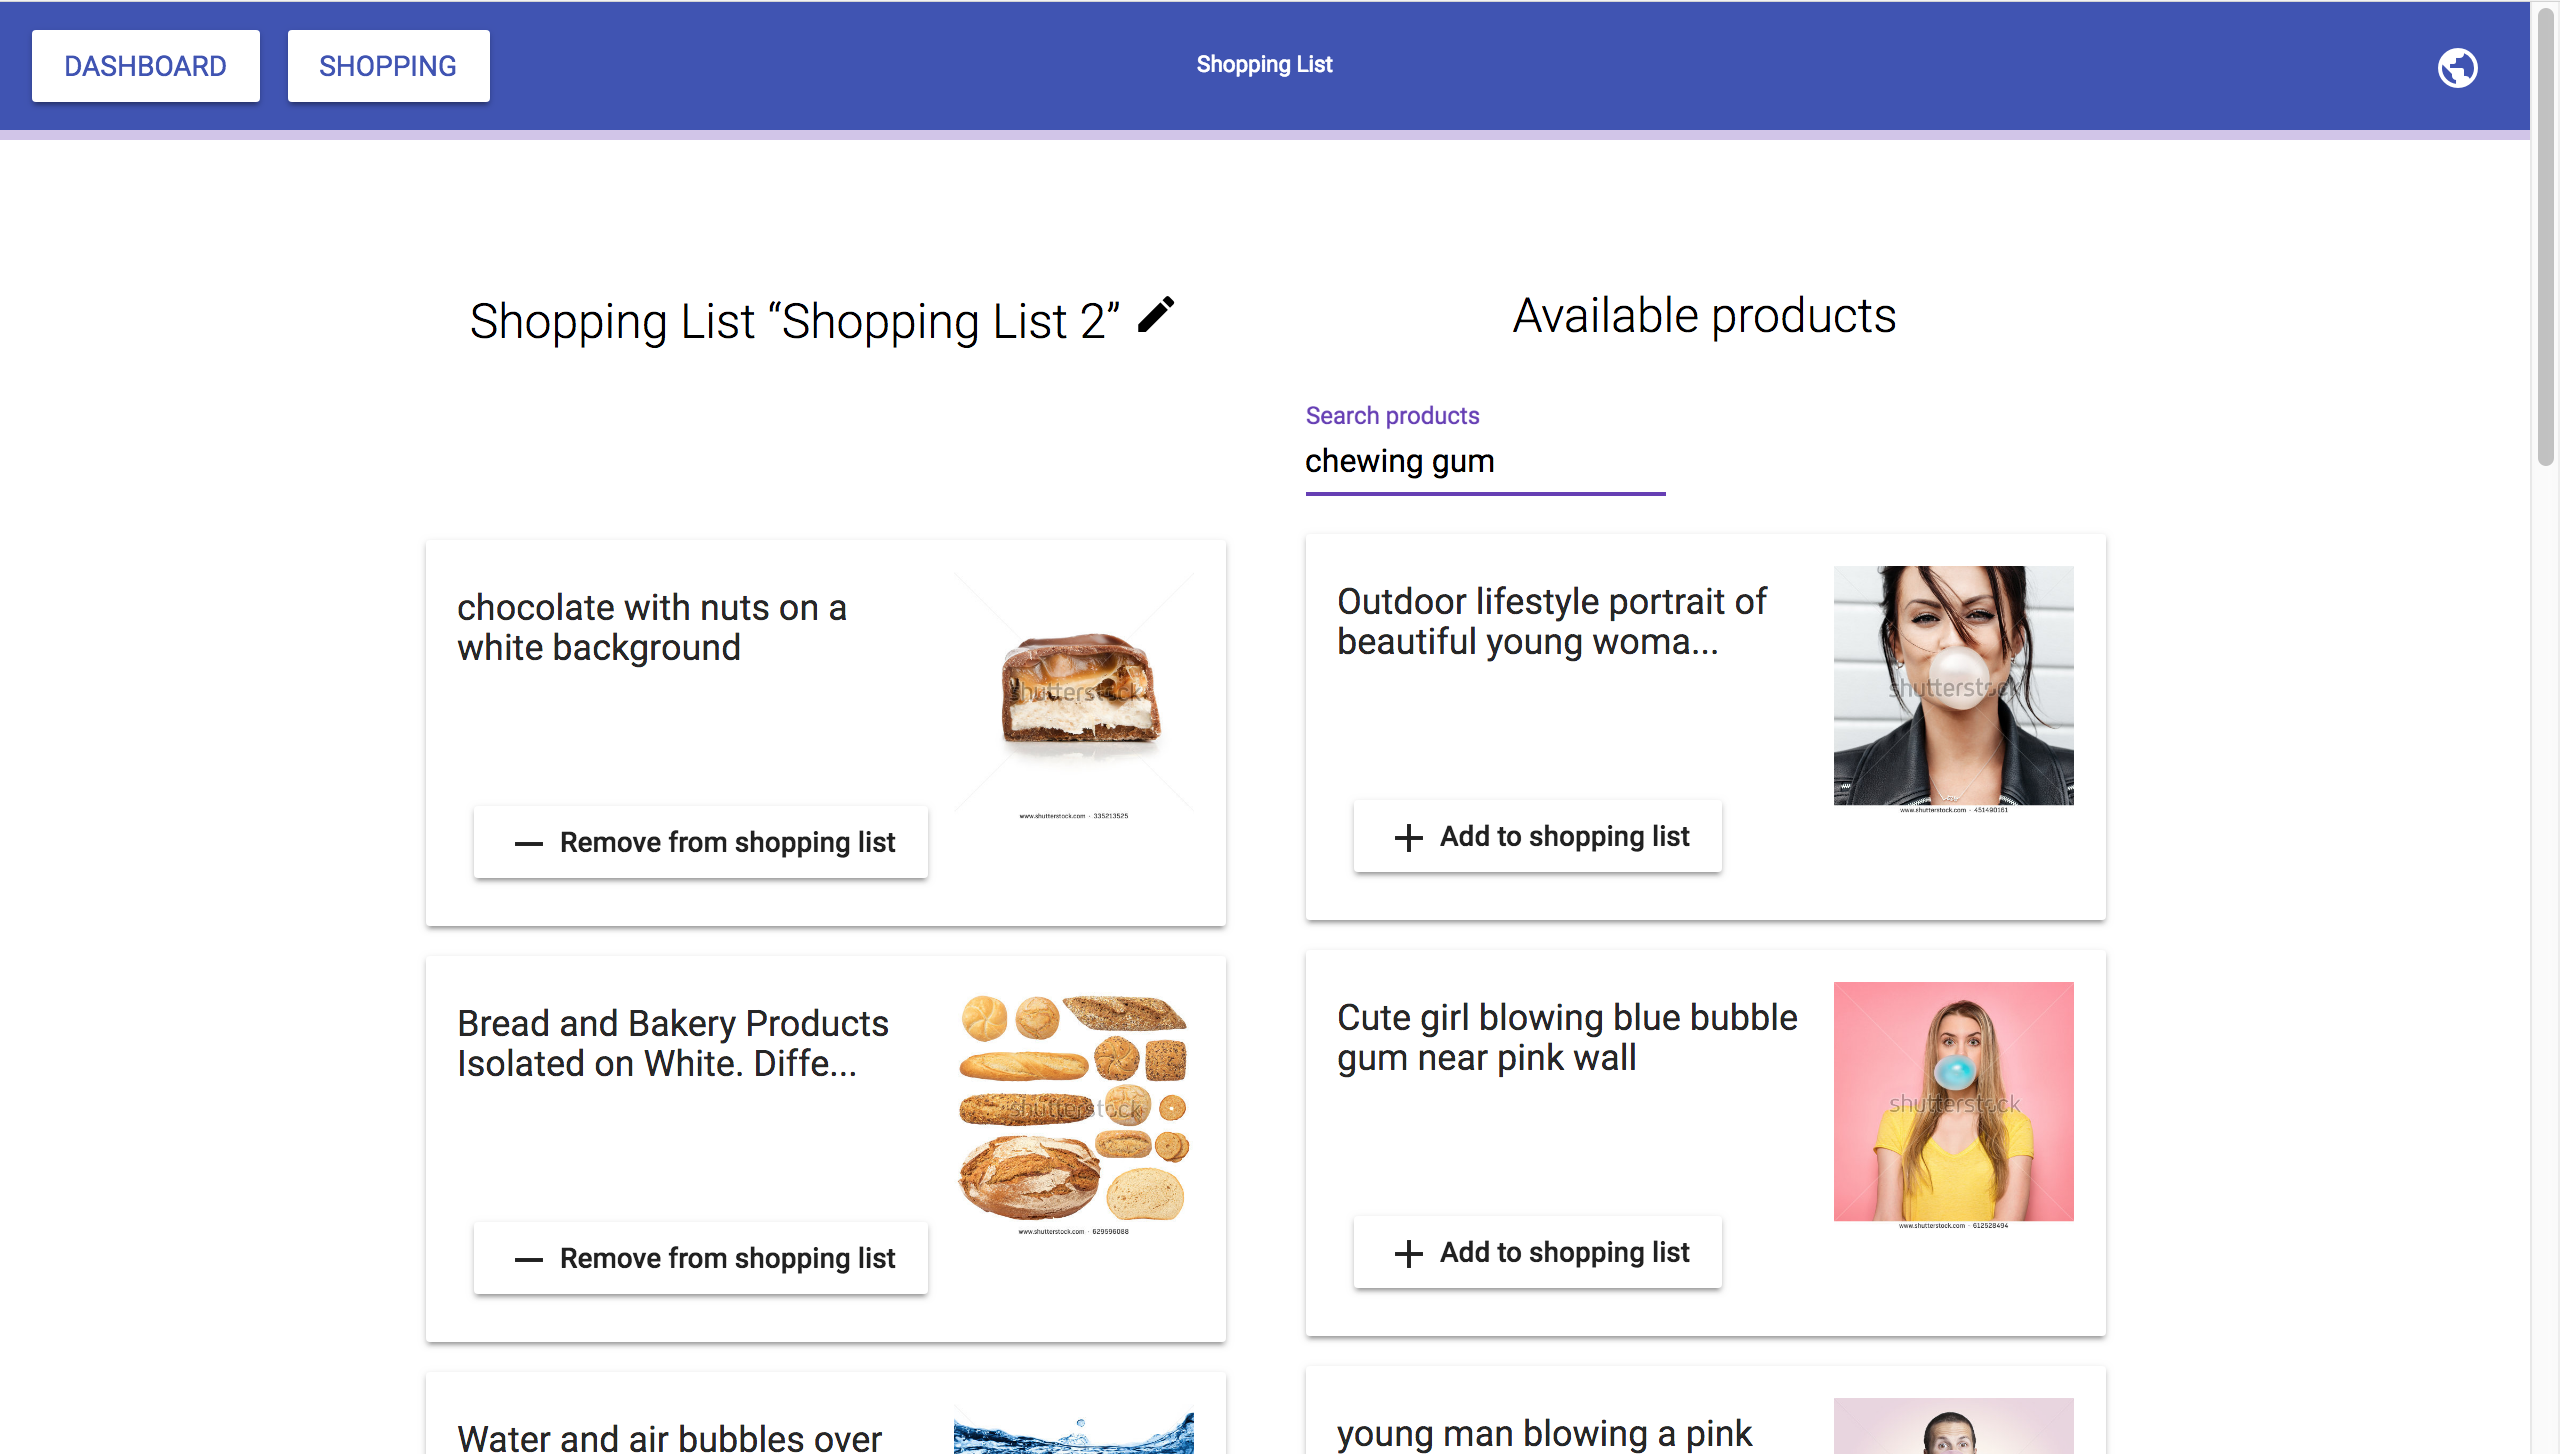
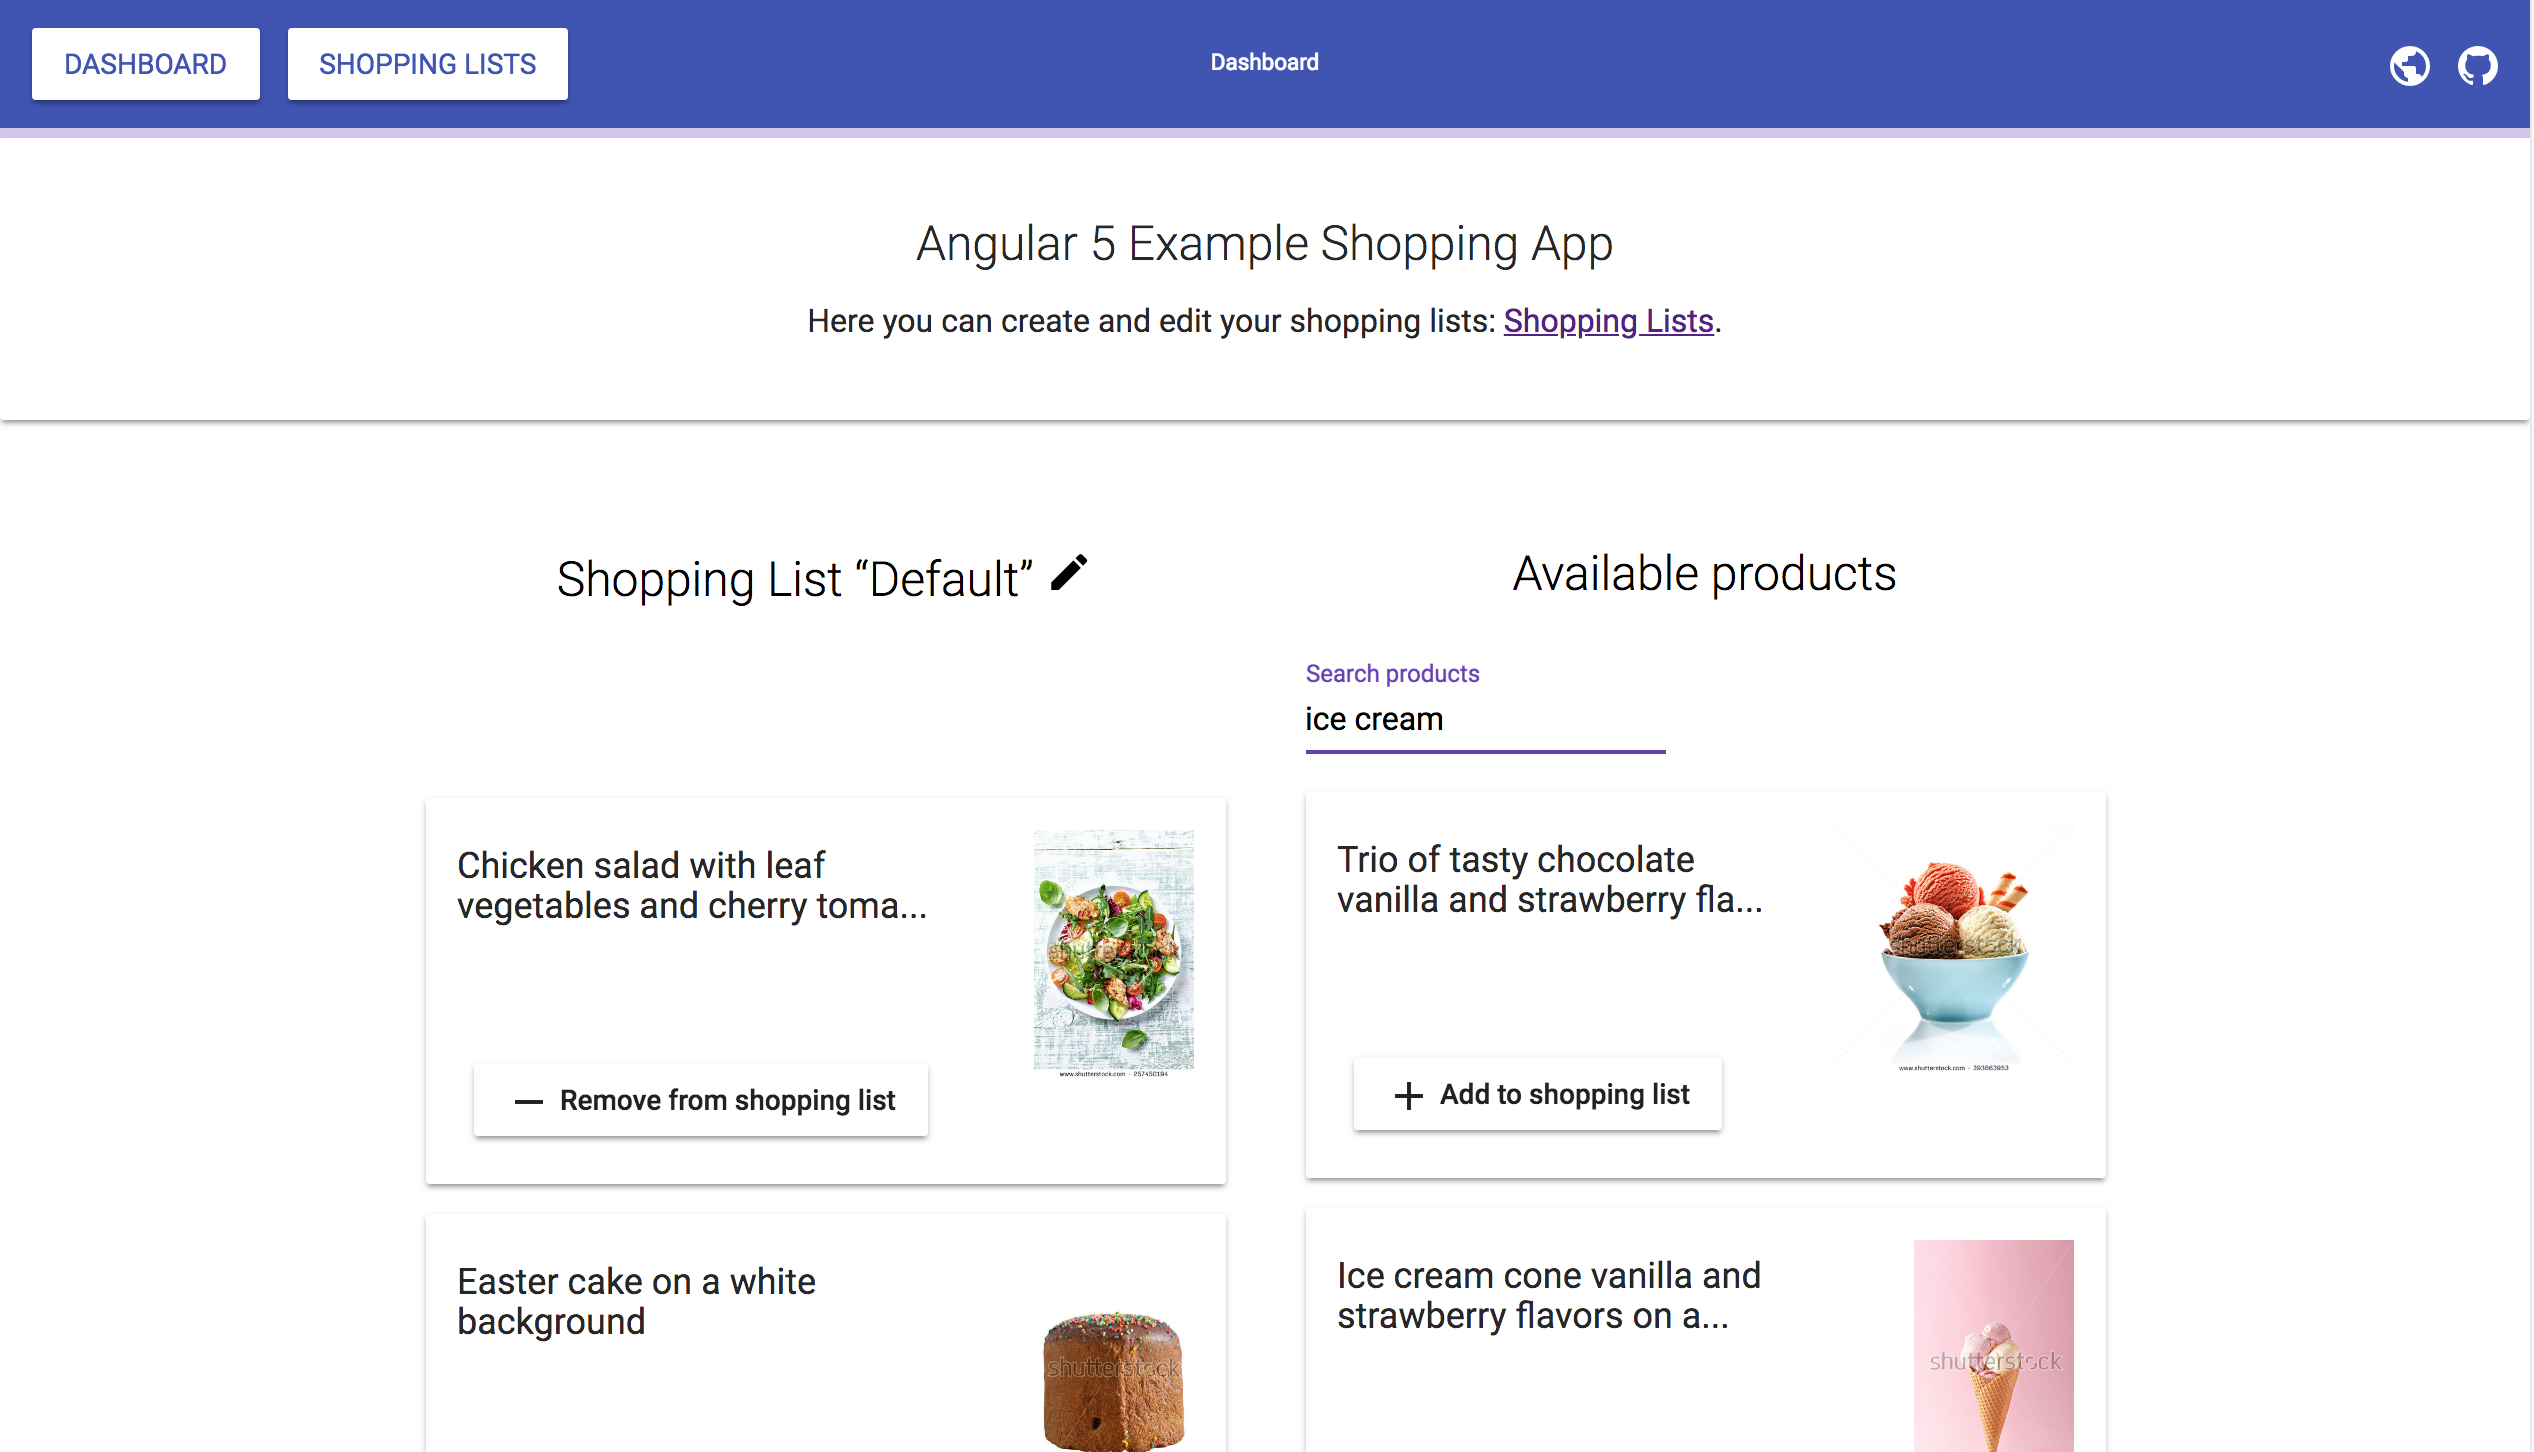
added default shopping list, displaying it in Dashboard

diff --git a/src/app/config/app.config.ts b/src/app/config/app.config.ts
@@ -13,5 +13,20 @@ export const AppConfig = {
 
   },
   snackBarDuration: 3000,
-  repositoryURL: 'https://github.com/affilnost/angular5-example-shopping-app'
+  repositoryURL: 'https://github.com/affilnost/angular5-example-shopping-app',
+  defultSHContent: '[{"id":"257450194","name":"Chicken salad with leaf vegetables and cherry toma...",' +
+  '"imgUrl":"https://image.shutterstock.com/display_pic_with_logo/236329/257450194/stock-photo-chicken-salad' +
+  '-with-leaf-vegetables-and-cherry-tomatoes-257450194.jpg","description":"Chicken salad with leaf vegetables' +
+  ' and cherry tomatoes"},{"id":"548526682","name":"Easter cake on a white background","imgUrl":"https://ima' +
+  'ge.shutterstock.com/display_pic_with_logo/2675854/548526682/stock-photo-easter-cake-on-a-white-background' +
+  '-548526682.jpg","description":"Easter cake on a white background"},{"id":"591617762","name":"Chocolate egg' +
+  ' exploded","imgUrl":"https://image.shutterstock.com/display_pic_with_logo/685426/591617762/stock-photo-cho' +
+  'colate-egg-exploded-591617762.jpg","description":"Chocolate egg exploded"},{"id":"525754399","name":"Glass' +
+  ' of milk isolated on white","imgUrl":"https://image.shutterstock.com/display_pic_with_logo/371512/52575439' +
+  '9/stock-photo-glass-of-milk-isolated-on-white-525754399.jpg","description":"Glass of milk isolated on whi' +
+  'te"},{"id":"629596088","name":"Bread and Bakery Products Isolated on White. Diffe...","imgUrl":"https://i' +
+  'mage.shutterstock.com/display_pic_with_logo/3011495/629596088/stock-photo-bread-and-bakery-products-isola' +
+  'ted-on-white-different-types-of-bread-sesame-bun-baguette-baked-629596088.jpg","description":"Bread and Ba' +
+  'kery Products Isolated on White. Different types of bread: sesame bun, baguette, baked rolls, rustic brea' +
+  'd, round bun, sesame bun."}]'
 };

diff --git a/src/app/shopping/shared/shopping.service.ts b/src/app/shopping/shared/shopping.service.ts
@@ -22,12 +22,14 @@ export class ShoppingService {
   private shoppinglistPrefix: string;
   private shoppinglistsPrefix: string;
   private maxTitleLength: number;
+  private defaultSL: object;
 
   constructor(private http: HttpClient,
               private translateService: TranslateService,
               private snackBar: MatSnackBar) {
     this.productsGetUrl = AppConfig.endpoints.productsBaseUrl + AppConfig.endpoints.productsGetPath;
     this.productsBaseUrl = AppConfig.endpoints.productsBaseUrl;
+    this.defaultSL = AppConfig.defultSHContent;
     this.shoppinglistPrefix = 'shopping-list-';
     this.shoppinglistsPrefix = 'shopping-lists';
     this.maxTitleLength = 50;
@@ -97,6 +99,30 @@ export class ShoppingService {
     let slProducts = this.getProductsByShoppingList(shoppingList);
     slProducts = slProducts.filter(sl => sl.id !== product.id);
     localStorage.setItem(this.shoppinglistPrefix + shoppingList.id, JSON.stringify(slProducts));
+  }
+
+  isThereShoppingLists(): boolean {
+    if (!this.getAllShoppingLists().length) {
+      return false;
+    }
+    return true;
+  }
+
+  getFirstShoppingList(): ShoppingList {
+    const shLists = this.getAllShoppingLists();
+    if (shLists.length) {
+      return shLists[0];
+    } else {
+      return null;
+    }
+  }
+
+  initShoppingListsWithDefault(): ShoppingList {
+    const shoppingList = new ShoppingList(0, 'Default');
+    const shoppingLists = [shoppingList];
+    localStorage.setItem(this.shoppinglistsPrefix, JSON.stringify(shoppingLists));
+    localStorage.setItem(this.shoppinglistPrefix + 0, this.defaultSL);
+    return shoppingList;
   }
 
   getAllShoppingLists(): ShoppingList[] {

diff --git a/src/app/app.module.ts b/src/app/app.module.ts
@@ -1,6 +1,6 @@
 import {BrowserModule} from '@angular/platform-browser';
 import {NgModule} from '@angular/core';
-import {FormsModule} from '@angular/forms';
+import {FormsModule, ReactiveFormsModule} from '@angular/forms';
 import {HttpClientModule, HttpClient} from '@angular/common/http';
 
 // Material
@@ -24,6 +24,10 @@ import {SharedModule} from './shared/shared.module';
 import {StateService} from './services/state/state.service';
 import {APP_CONFIG, AppConfig} from './config/app.config';
 
+import {ShoppingService} from './shopping/shared/shopping.service';
+import {CommonModule} from '@angular/common';
+import {SharedComponentsModule} from './shared/shared-components.module';
+
 
 @NgModule({
   declarations: [
@@ -31,10 +35,12 @@ import {APP_CONFIG, AppConfig} from './config/app.config';
     DashboardComponent
   ],
   imports: [
+    CommonModule,
     BrowserModule,
     BrowserAnimationsModule,
     MaterialModule,
     FormsModule,
+    ReactiveFormsModule,
     HttpClientModule,
     CoreModule,
     TranslateModule.forRoot({
@@ -45,11 +51,13 @@ import {APP_CONFIG, AppConfig} from './config/app.config';
       }
     }),
     SharedModule.forRoot(),
-    AppRoutingModule
+    AppRoutingModule,
+    SharedComponentsModule
   ],
   providers: [
     {provide: 'state', useClass: StateService},
-    {provide: APP_CONFIG, useValue: AppConfig}
+    {provide: APP_CONFIG, useValue: AppConfig},
+    ShoppingService
   ],
   bootstrap: [AppComponent]
 })

diff --git a/src/app/dashboard/dashboard.component.html b/src/app/dashboard/dashboard.component.html
@@ -1,12 +1,12 @@
-<div fxLayout="row">
-  <div fxFlex="10" fxFlex.gt-sm="20"></div>
-  <div fxFlex="90" fxFlex.gt-sm="80">
-    <h1 class="section-title">{{ 'Pages.Dashboard.Headline' | translate}}</h1>
-    <br>
-    <p>{{ "Pages.Dashboard.welcomeText" | translate }} <a routerLink="/shopping">{{ "Pages.Shopping.Title" | translate }}</a>.</p>
-    <mat-card class="welcome-card">
-      <img mat-card-image src="https://media.giphy.com/media/SKGo6OYe24EBG/giphy.gif">
-    </mat-card>
+<mat-card class="main-dashboard-card">
+  <div fxLayout="row">
+    <div fxFlex="10" fxFlex.gt-sm="20"></div>
+    <div fxFlex="90" fxFlex.gt-sm="80">
+      <h1 class="section-title">{{ 'Pages.Dashboard.Headline' | translate}}</h1>
+      <p>{{ "Pages.Dashboard.welcomeText" | translate }} <a routerLink="/shopping">{{ "Pages.Shopping.Title" | translate }}</a>.</p>
+    </div>
+    <div fxFlex="10" fxFlex.gt-sm="20"></div>
   </div>
-  <div fxFlex="10" fxFlex.gt-sm="20"></div>
-</div>
+</mat-card>
+
+<app-shopping-list-detail></app-shopping-list-detail>

diff --git a/src/app/shopping/shopping-list-detail/shopping-list-detail.component.ts b/src/app/shopping/shopping-list-detail/shopping-list-detail.component.ts
@@ -26,8 +26,17 @@ export class ShoppingListDetailComponent {
     this.activatedRoute.params.subscribe((params: any) => {
       if (params['id']) {
         this.shoppingList = this.shoppingService.getShoppingListById(params['id']);
-        this.shoppingListProducts = this.shoppingService.getProductsByShoppingList(this.shoppingList);
+      } else {
+        if (this.shoppingService.isThereShoppingLists()) {
+          // if there are any shopping lists - get the first one
+          this.shoppingList = this.shoppingService.getFirstShoppingList();
+
+        } else {
+          // if there are no shopping lists
+          this.shoppingList = this.shoppingService.initShoppingListsWithDefault();
+        }
       }
+      this.shoppingListProducts = this.shoppingService.getProductsByShoppingList(this.shoppingList);
     });
 
     this.shoppingService.getProducts().subscribe((products: Array<Product>) => {

diff --git a/src/app/shopping/shopping.module.ts b/src/app/shopping/shopping.module.ts
@@ -8,8 +8,8 @@ import {SharedModule} from '../shared/shared.module';
 
 import {ShoppingListsComponent, RemoveShoppingListDialogComponent} from './shopping-lists/shopping-lists.component';
 import {ShoppingService} from './shared/shopping.service';
-import {ShoppingListDetailComponent} from './shopping-list-detail/shopping-list-detail.component';
 import {ShoppingComponent} from './shopping.component';
+import {SharedComponentsModule} from '../shared/shared-components.module';
 
 
 @NgModule({
@@ -18,12 +18,12 @@ import {ShoppingComponent} from './shopping.component';
     FormsModule,
     SharedModule,
     ShoppingRoutingModule,
-    ReactiveFormsModule
+    ReactiveFormsModule,
+    SharedComponentsModule
   ],
   declarations: [
     ShoppingComponent,
     ShoppingListsComponent,
-    ShoppingListDetailComponent,
     RemoveShoppingListDialogComponent
   ],
   entryComponents: [

diff --git a/src/app/app-routing.module.ts b/src/app/app-routing.module.ts
@@ -4,10 +4,13 @@ import {RouterModule, Routes} from '@angular/router';
 import {DashboardComponent} from './dashboard/dashboard.component';
 import {Error404Component} from './core/error404/error404.component';
 import {AppConfig} from './config/app.config';
+import {ShoppingListDetailComponent} from './shopping/shopping-list-detail/shopping-list-detail.component';
 
 const routes: Routes = [
   {path: '', redirectTo: '/', pathMatch: 'full'},
-  {path: '', component: DashboardComponent, data: {title: 'Dashboard'}},
+  {
+    path: '', component: DashboardComponent, data: {title: 'Dashboard'}
+  },
   {path: AppConfig.routes.shopping, loadChildren: 'app/shopping/shopping.module#ShoppingModule'},
   {path: AppConfig.routes.error404, component: Error404Component},
   {path: '**', redirectTo: '/' + AppConfig.routes.error404}

diff --git a/src/app/shared/shared-components.module.ts b/src/app/shared/shared-components.module.ts
@@ -1,0 +1,26 @@
+import {ModuleWithProviders, NgModule} from '@angular/core';
+import {ShoppingListDetailComponent} from '../shopping/shopping-list-detail/shopping-list-detail.component';
+import {CommonModule} from '@angular/common';
+import {FormsModule, ReactiveFormsModule} from '@angular/forms';
+import {TranslateModule} from '@ngx-translate/core';
+import {MaterialModule} from './material.module';
+
+
+@NgModule({
+  imports: [
+    CommonModule,
+    FormsModule,
+    ReactiveFormsModule,
+    TranslateModule,
+    MaterialModule
+  ],
+  declarations: [
+    ShoppingListDetailComponent
+  ],
+  exports: [
+    ShoppingListDetailComponent
+  ]
+})
+
+export class SharedComponentsModule {
+}

diff --git a/src/app/shared/shared.module.ts b/src/app/shared/shared.module.ts
@@ -2,13 +2,17 @@ import {ModuleWithProviders, NgModule} from '@angular/core';
 import {MaterialModule} from './material.module';
 import {TranslateModule} from '@ngx-translate/core';
 import {FlexLayoutModule} from '@angular/flex-layout';
+import {CommonModule} from '@angular/common';
+
 
 @NgModule({
   imports: [
+    CommonModule,
     MaterialModule,
     FlexLayoutModule,
     TranslateModule
   ],
+  declarations: [],
   exports: [
     MaterialModule,
     FlexLayoutModule,

diff --git a/src/app/dashboard/dashboard.component.scss b/src/app/dashboard/dashboard.component.scss
@@ -1,4 +1,12 @@
 .welcome-card {
   margin: 2em auto;
 }
-
+.section-title {
+  padding-top: 0;
+}
+p {
+  text-align: center;
+}
+.main-dashboard-card {
+  margin-bottom: 20px;
+}

diff --git a/src/scss/basic/_main.scss b/src/scss/basic/_main.scss
@@ -8,7 +8,7 @@
   .col {
     width: 400px;
     min-width: 200px;
-    margin: 20px;
+    margin: 0 20px 20px 20px;
   }
 }
 .productImg {

diff --git a/src/app/core/header/header.component.scss b/src/app/core/header/header.component.scss
@@ -1,6 +1,6 @@
 :host(app-header) {
   padding-top: 0;
-  padding-bottom: 5em;
+  padding-bottom: 4.3em;
   display: grid;
 
   header {
